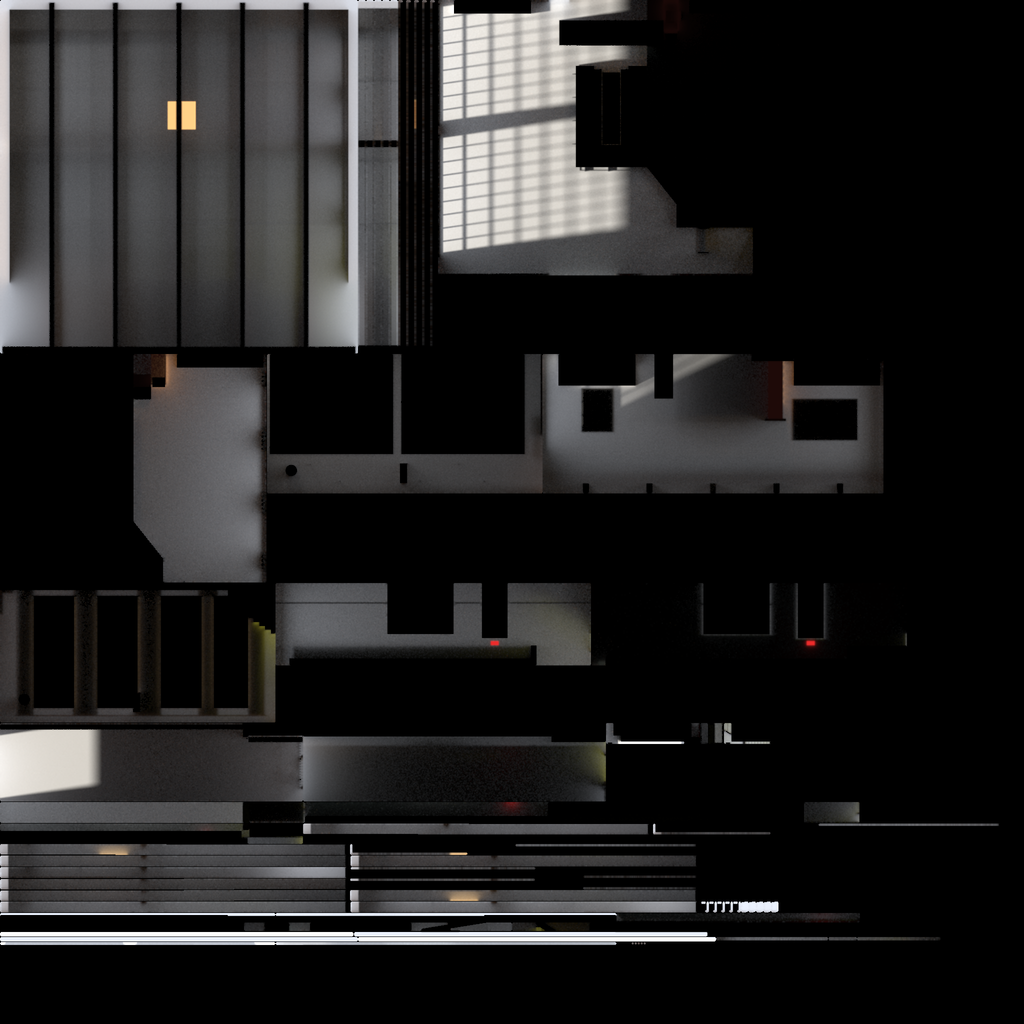
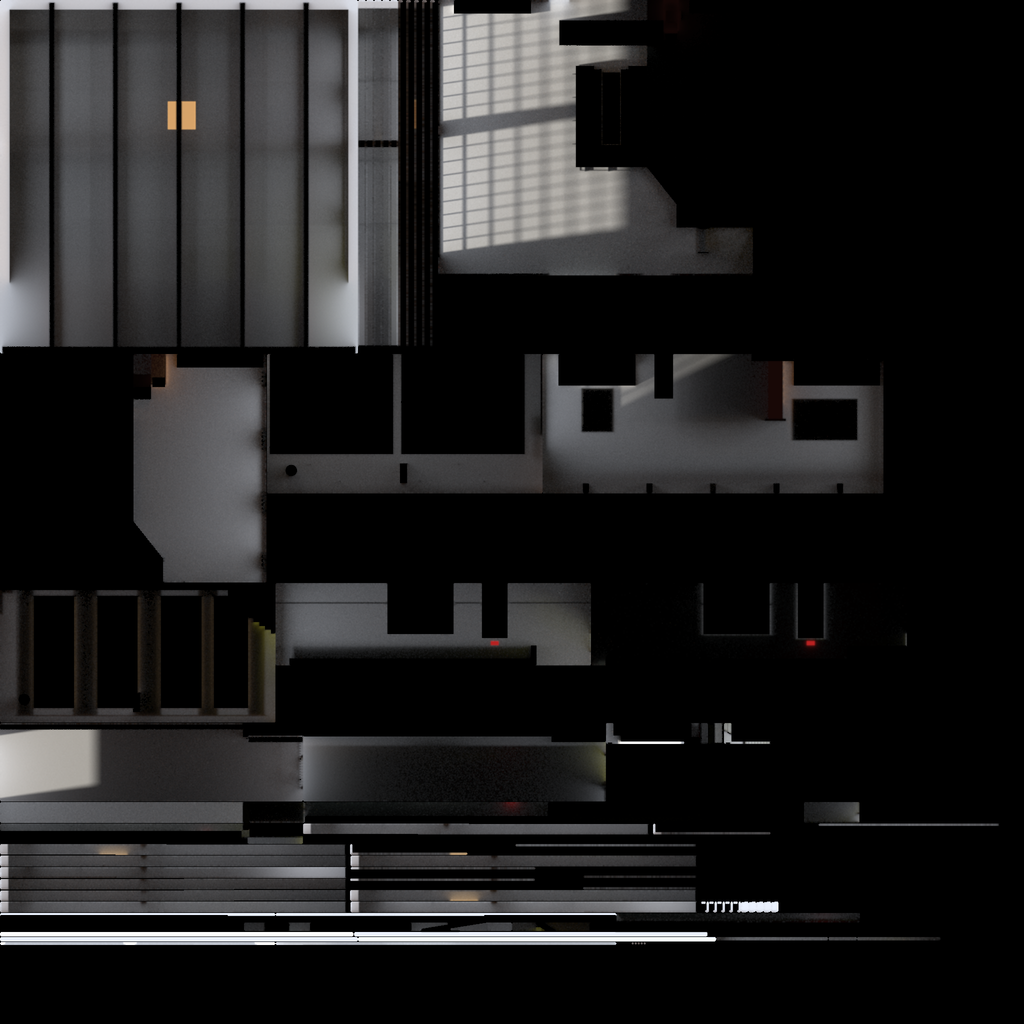
V2b: light calibration from the fidelity review: amber brick with a distinct red dado, darker evening floor, separate track pools, white linen, dark street at night, brighter daylight; bright terrace by day (LGT-01, LGT-03)
Terrace backdrop bright by day, dark at night, never modelled (owner, 2026-10-19); CLAUDE.md scope line updated to match.

Claude-Session: https://claude.ai/code/session_011uuG6S5B44UFQf4qRyq7GE

diff --git a/src/scene/Studio3D.tsx b/src/scene/Studio3D.tsx
@@ -113,7 +113,7 @@ function Lighting({
   return (
     <>
       {/* Evening warmth kept calm, so white linen reads white or ivory, not beige (V2 colour check). */}
-      <hemisphereLight args={evening ? ["#615a50", "#1f1b16", 0.75] : ["#e9eef2", "#a48d72", 1.25]} />
+      <hemisphereLight args={evening ? ["#615a50", "#1f1b16", 0.45] : ["#e9eef2", "#a48d72", 1.25]} />
       <directionalLight
         // A new tier's shadow size needs a new shadow map.
         key={shadowSize}
@@ -121,7 +121,7 @@ function Lighting({
         // spots, so the bar and tables cast their shadows straight down (R06, R08).
         position={evening ? [W / 2 + 1.5, 14, D / 2 - 1.5] : [-12, 13, D / 2 - 3]}
         intensity={evening ? 1.1 : 2.4}
-        color={evening ? "#ffdfc0" : "#fff4e6"}
+        color={evening ? "#ffe8d4" : "#fff4e6"}
         castShadow={shadowSize > 0}
         // Plan view is flat and high-contrast: no shadows (DESIGN_GUIDE §9).
         shadow-intensity={plan ? 0 : 1}
@@ -144,7 +144,7 @@ function Lighting({
           intensity={(c.kind === "brassCluster" ? 26 : 9) * (evening ? 1 : 0.25)}
           distance={c.kind === "brassCluster" ? 14 : 8}
           decay={1.6}
-          color="#ffdcb8"
+          color="#ffe6cf"
         />
       ))}
       {/* The back bar's glow, under its canopy (R01, R03). */}
@@ -155,9 +155,9 @@ function Lighting({
         decay={1.6}
         color="#ffc98e"
       />
-      <pointLight position={[13.5, 1.6, 6]} intensity={6 * glow} distance={9} decay={1.6} color="#ffd0a0" />
-      <pointLight position={[3.5, 1.6, 6]} intensity={6 * glow} distance={9} decay={1.6} color="#ffd0a0" />
-      <pointLight position={[5.6, 2, 11]} intensity={6 * glow} distance={8} decay={1.6} color="#ffd0a0" />
+      <pointLight position={[13.5, 1.6, 6]} intensity={3 * glow} distance={9} decay={1.6} color="#ffe2c4" />
+      <pointLight position={[3.5, 1.6, 6]} intensity={3 * glow} distance={9} decay={1.6} color="#ffe2c4" />
+      <pointLight position={[5.6, 2, 11]} intensity={3 * glow} distance={8} decay={1.6} color="#ffe2c4" />
       <Environment resolution={128} frames={1}>
         <Lightformer
           form="rect"

diff --git a/src/scene/materials.ts b/src/scene/materials.ts
@@ -123,7 +123,7 @@ export const CONTACT_SPREAD = 1.6;
  * The buff brick's tint by day and in the evening (V2b): under the venue's warm light at night it
  * reads orange-brown in R06 and R08, not pale beige.
  */
-export const BRICK_TINT = { day: "#f4ebdd", evening: "#e3a77e" } as const;
+export const BRICK_TINT = { day: "#f4ebdd", evening: "#efd2b4" } as const;
 
 /** The plinth's shadow plane is this many times its size (`softShadowTexture`). */
 export const SHADOW_SPREAD = 1.25;
@@ -187,7 +187,7 @@ export function useMaterials(quality: Quality) {
         { cell: TILE.tile / 3 },
       ),
       // Weathered grey-tan wood strips (R03, R04).
-      tileJoint: std({ color: "#857a6a", roughness: 0.8 }),
+      tileJoint: std({ color: "#6f665a", roughness: 0.8 }),
       woodFloor: std({
         map: tex.floorDiff,
         normalMap: tex.floorNor,
@@ -316,7 +316,9 @@ export function useMaterials(quality: Quality) {
       stairWall: std({ color: "#262b28", roughness: 0.9 }),
       // The mezzanine's underside, which carries the baked light (V2).
       soffit: std({ color: "#262b28", roughness: 0.9 }),
-      terrace: std({ color: "#1b2421", roughness: 1 }),
+      // The terrace through the garage doors by day: a bright, slightly green-grey backdrop, unlit
+      // (R02, R03; owner 2026-10-19). Dark at night (`darkVoid`).
+      terrace: new THREE.MeshBasicMaterial({ color: "#b9c4bf" }),
       street: std({ color: "#5d6266", roughness: 1 }),
       // The dance area is marked, not built (LIB-01): a solid sand line that reads in evening and
       // daylight, and a faint lit tint that darkens with the room instead of glowing.

diff --git a/src/scene/venue/Fixtures.tsx b/src/scene/venue/Fixtures.tsx
@@ -211,7 +211,8 @@ export function Backdrops({ venue, m, evening }: P) {
     <group name="backdrops">
       <mesh geometry={g.terrace} material={evening ? m.darkVoid : m.terrace} />
       <mesh geometry={g.terraceFloor} material={m.tile} />
-      <mesh geometry={g.street} material={m.street} />
+      {/* At night the street facades are dark through the glass (R11). */}
+      <mesh geometry={g.street} material={evening ? m.darkVoid : m.street} />
       {g.lights && <mesh geometry={g.lights} material={m.bulb} visible={evening} />}
     </group>
   );

diff --git a/src/scene/useBake.ts b/src/scene/useBake.ts
@@ -19,7 +19,7 @@ export type Bake = { atlas: Atlas; materials: Partial<Materials> };
  * Brightness of each set on top of the bake's own scale: the evening and daylight calibration
  * against the reference photos (V2).
  */
-const EXPOSURE: Record<(typeof BAKE_SETS)[number], number> = { evening: 0.24, day: 2.3 };
+const EXPOSURE: Record<(typeof BAKE_SETS)[number], number> = { evening: 0.19, day: 3.4 };
 
 /**
  * Plan view is flat (DESIGN_GUIDE §9): an even light map in place of the bake, still bound, so

diff --git a/src/scene/venue/bake.ts b/src/scene/venue/bake.ts
@@ -130,7 +130,7 @@ const BAKED_AMBIENT = 0.08;
  * Share of the live lights' direct light a baked surface keeps (V2b): live shadows and the couple's
  * placed lights show on the floor and walls, and the graphics tiers' shadows show there too.
  */
-const LIVE_SHARE = 0.35;
+const LIVE_SHARE = 0.25;
 
 /**
  * A receiver's material with the light map: its diffuse light comes mostly from the map, with

diff --git a/tools/blender/bake_room.py b/tools/blender/bake_room.py
@@ -44,8 +44,8 @@ room = bpy.context.active_object
 lightmap_uv = room.data.uv_layers[1].name
 print("receivers joined", len(room.data.polygons), "faces;", round(time.time() - t0), "s")
 
-# About 2400 K: the venue at night is amber, not neutral (R06, R08; V2b).
-warm = (1.0, 0.72, 0.45)
+# About 2700 K: the venue at night is amber, not neutral (R06, R08; V2b).
+warm = (1.0, 0.78, 0.55)
 
 
 def add_light(name, kind, loc, watts, color=warm, radius=0.2, target=None, angle=None, blend=0.6):
@@ -76,9 +76,9 @@ if MODE == "evening":
     bg.inputs["Strength"].default_value = 1.0
     for c in f["chandeliers"]:
         if c["kind"] == "brassCluster":
-            add_light("brass", "POINT", B(c["x"], (c["bottom"] + c["top"]) / 2, c["z"]), 1000, radius=0.45)
+            add_light("brass", "POINT", B(c["x"], (c["bottom"] + c["top"]) / 2, c["z"]), 700, radius=0.45)
         else:
-            add_light("cage", "POINT", B(c["x"], c["bottom"] + 0.6, c["z"]), 300, radius=0.3)
+            add_light("cage", "POINT", B(c["x"], c["bottom"] + 0.6, c["z"]), 200, radius=0.3)
     for row in f["pendantRows"]:
         for i in range(row["count"]):
             x = row["x0"] + (row["x1"] - row["x0"]) * i / max(1, row["count"] - 1)
@@ -86,7 +86,7 @@ if MODE == "evening":
     # Track spots on the north brick, either side of the back bar: scallops of light with dark
     # gaps between them (R01, R08), not an even wash.
     for x in (1.6, 3.0, 4.4, 11.6, 13.2, 14.8):
-        add_light("track", "SPOT", B(x, C - 0.6, 1.8), 95, target=B(x, 2.6, 0.0), angle=30, blend=0.55)
+        add_light("track", "SPOT", B(x, C - 0.6, 1.8), 220, target=B(x, 2.0, 0.0), angle=22, blend=0.3)
     # Warm uplights washing the brick piers between the street windows (R05, R10).
     east = next(w for w in V["walls"] if w["id"] == "east")
     edges = [0.0] + [e for o in sorted(east["openings"], key=lambda o: o["start"]) for e in (o["start"], o["end"])] + [D]
@@ -109,7 +109,7 @@ if MODE == "evening":
 else:
     # Daylight: soft sky through the garage doors and street windows, low sun from the terrace (west).
     bg.inputs["Color"].default_value = (0.8, 0.85, 0.95, 1)
-    bg.inputs["Strength"].default_value = 2.0
+    bg.inputs["Strength"].default_value = 3.5
     sun = add_light("sun", "SUN", B(-20, 14, D / 2 + 4), 9.0, color=(1.0, 0.95, 0.86), target=B(W / 2, 0, D / 2))
     sun.angle = math.radians(3)
 

diff --git a/VISUAL_STATUS.md b/VISUAL_STATUS.md
@@ -231,7 +231,9 @@ The Balanced still frame on PPL-03 can reach ≈ 155 draw calls (its ambient-occ
 - Evening bake at about 2400 K, crisper chandelier shadows (smaller sources), narrower and brighter track scallops on the north brick, brighter pier uplights, a darker night sky; the buff brick takes a warm tint in the evening (`BRICK_TINT`).
 - The evening key light from nearly overhead, so the bar and tables cast their shadows straight down; soft contact shadows under the bar and back counter, in the existing instanced draw.
 - Ambient occlusion stronger and tighter (radius 0.55 m); full resolution and 4× multisampling with High on a desktop, so the setting shows on a still picture.
+- Calibrated after a `fidelity-reviewer` round against R06, R08, R11, R16 and R01–R03: the bake at about 2700 K and a lighter evening brick tint, so the buff brick reads amber and the red dado stays distinct; evening exposure 0.19 with dimmer chandeliers, 25 % live share and a 0.45 hemisphere, for a darker floor; track spots at 220 W, 22°, aimed lower, for separate pools on the north brick; neutral-warm live light and halved fills, so white linen reads white; the street dark through the glass at night; daylight exposure 3.4 with a brighter sky; darker floor joints. The terrace backdrop is bright by day, dark at night (owner, 2026-10-19).
 - Budget: ppl03 Balanced stays at 149 draw calls (≤ 150).
+- Not done: the ceiling still reads a little red by day (the review suggests a lighter beam colour; left for a later bake).
 
 ### V3: Bar and back bar
 

diff --git a/CLAUDE.md b/CLAUDE.md
@@ -4,7 +4,7 @@ Private web app for planning a wedding reception (2026-11-21, ~75 guests) at **R
 
 ## Scope guard (non-negotiable)
 
-- Main restaurant floor only. Mezzanine = visible edge + stair, not a floor (only exception: DJ option 3 spot). Terrace = dark backdrop through the glass. No bistro. Not Salon Richmond 1861.
+- Main restaurant floor only. Mezzanine = visible edge + stair, not a floor (only exception: DJ option 3 spot). Terrace = a backdrop through the glass (bright by day, dark at night; owner 2026-10-19), never modelled. No bistro. Not Salon Richmond 1861.
 - Terrace images (X01–X05) never inform geometry.
 - Dimensions are estimates with confidence; never present them as measured. Layout checks are advisory; never claim code or capacity compliance.
 
